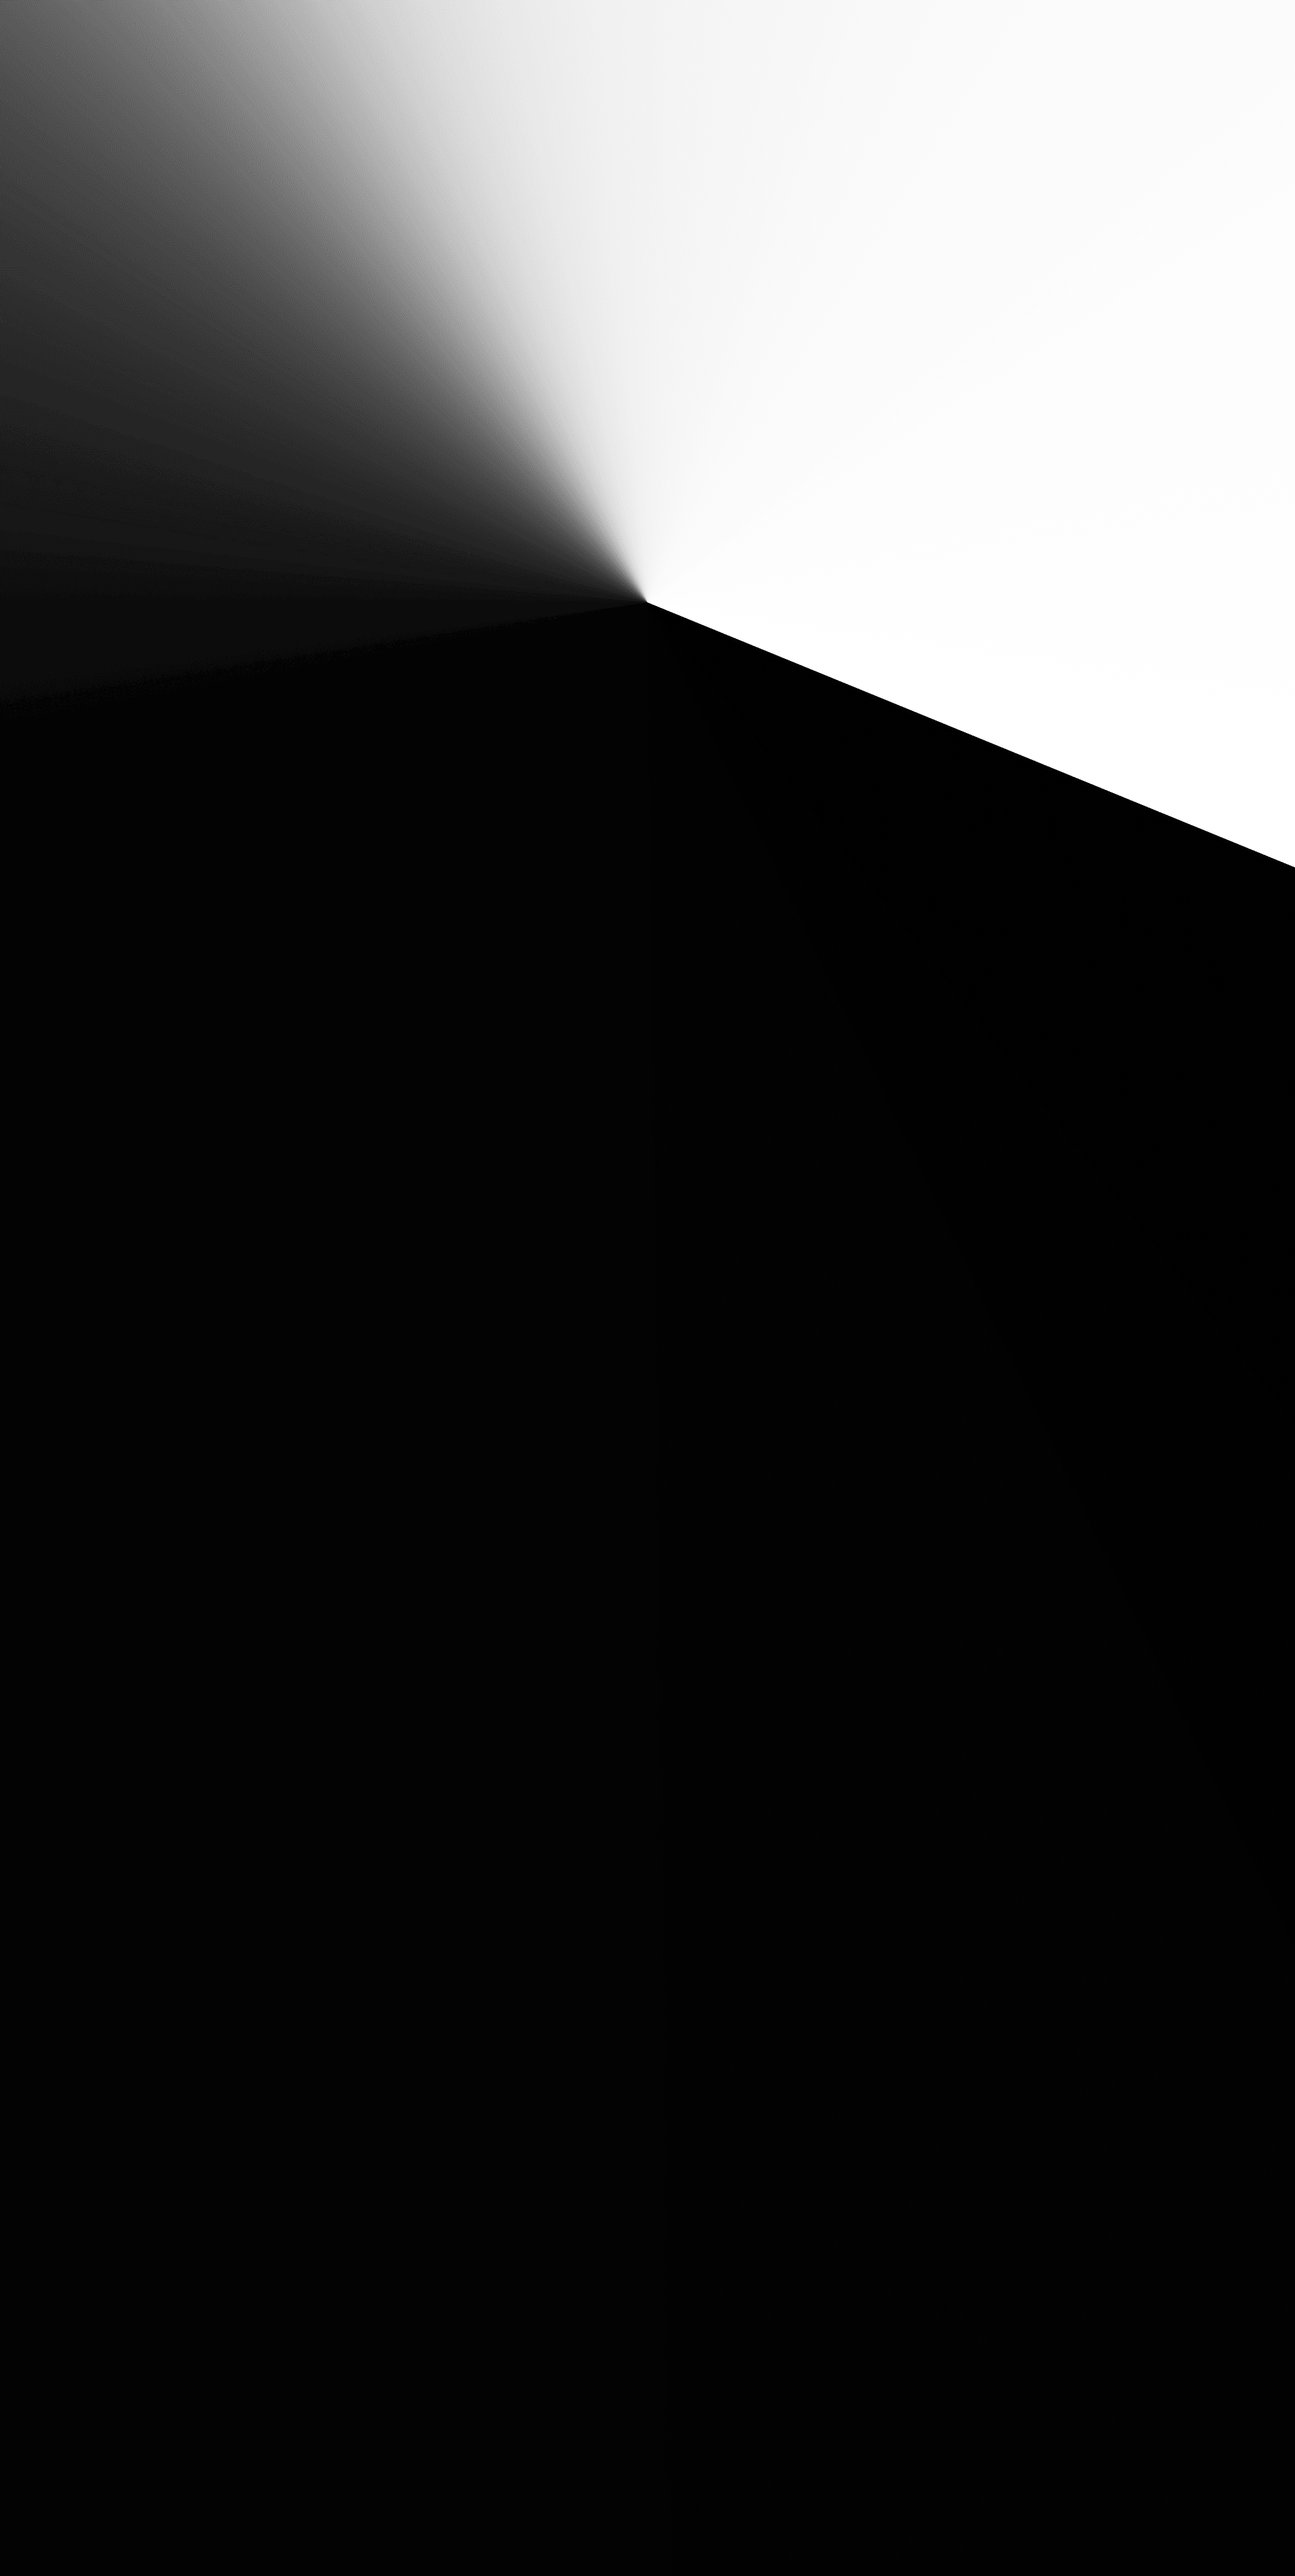
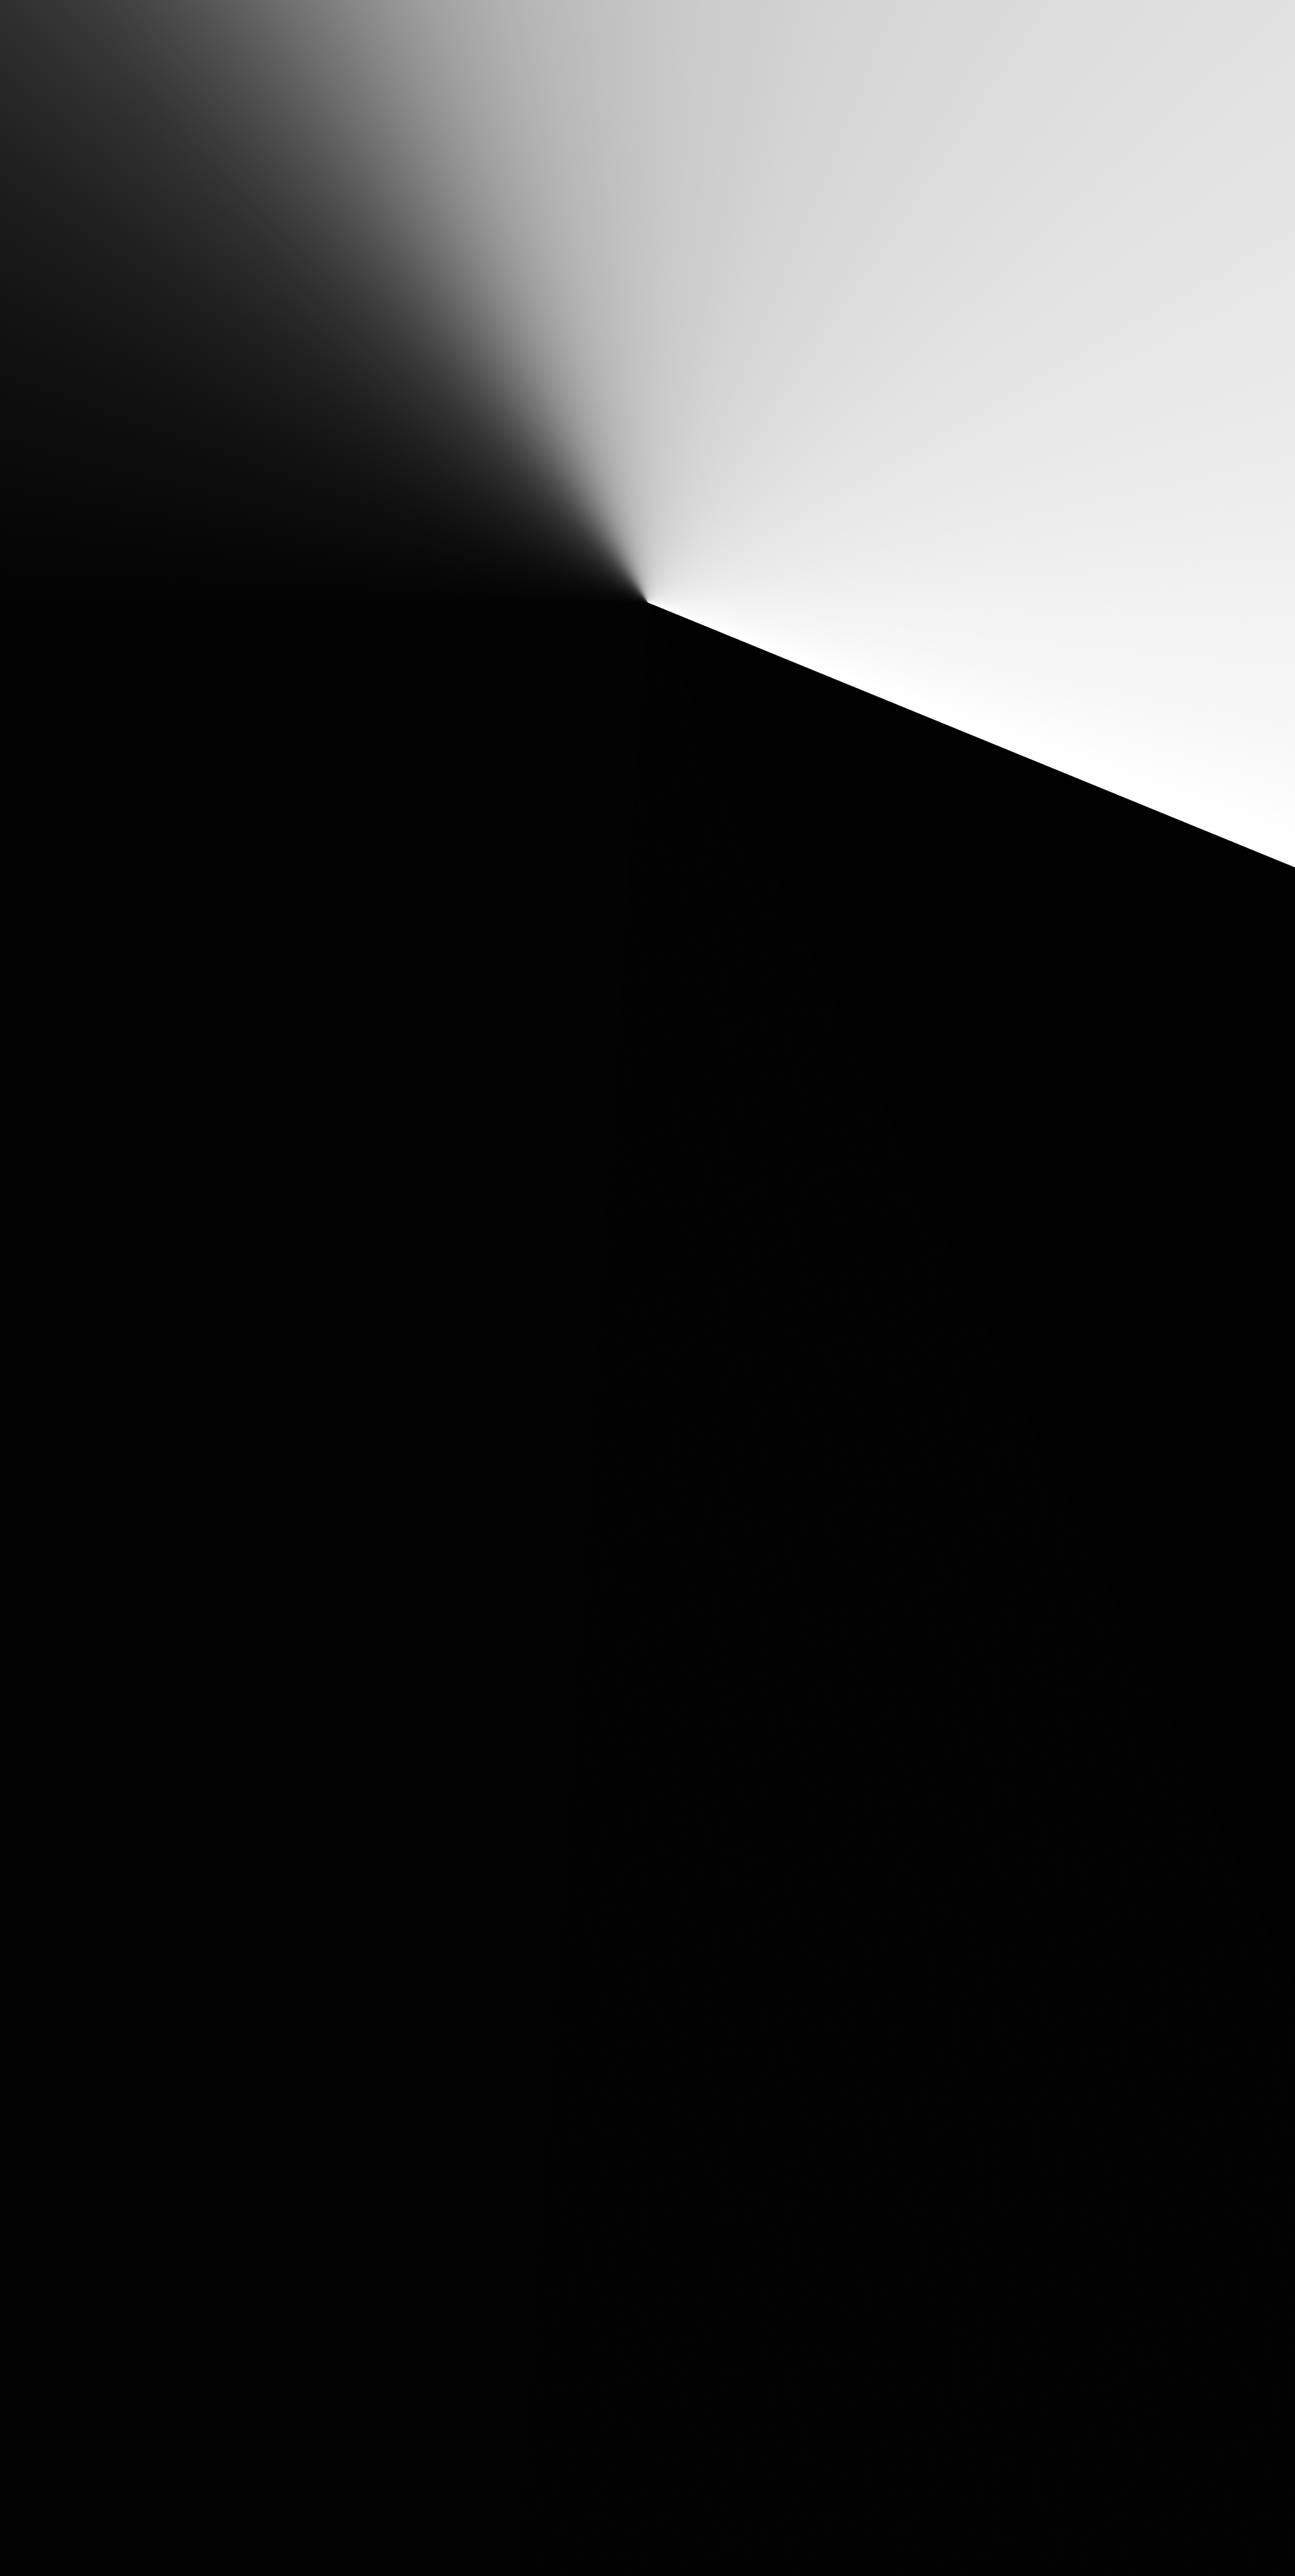
final commits

Changed region(s): [[0.0, 0.0, 1.0, 0.25]]

diff --git a/styles.css b/styles.css
@@ -11,6 +11,11 @@ html {
 
 body {
     font-family: 'Piazzolla', serif;
+    background-image: url(./images/background.png);
+    overflow: none;
+    background-size: 100%;
+    background-repeat: no-repeat;
+    background-color: black;
 }
 
 header {
@@ -19,7 +24,6 @@ header {
     justify-content: space-around;
     align-items: center;
     padding: 2em;
-    border: 1px solid black;
 }
 
 header h1 {
@@ -29,15 +33,18 @@ header h1 {
     text-shadow: 0rem 0.25rem 0.25rem rgba(0, 0, 0, 0.25);
     text-decoration-line: underline;
     line-height: 1.36rem;
-    border: 1px solid black;
 }
 
 header .nav-bar {
     display: flex;
-    border: 1px solid black;
     align-self: center;
     padding: 2em;
     justify-content: center;
+}
+
+.icon.responsive {
+    display: block;
+    font-size: 10em;
 }
 
 .nav-bar.responsive {
@@ -52,10 +59,6 @@ header .nav-bar {
 
 .nav-bar.responsive li {
     font-size: 3rem;
-}
-
-.nav-bar.responsive {
-    display: none;
 }
 
 header li {
@@ -95,7 +98,6 @@ header li a:visited {
 }
 
 .hero-section {
-    border: 1px solid black;
     padding: 18em;
     display: flex;
     flex-direction: column;
@@ -125,10 +127,18 @@ h3 {
     background-color: rgba(255, 255, 255, 0);
     max-width: 10em;
     margin-top: 3em;
+    cursor: pointer;
+}
+
+.hero-section button a:link,
+.hero-section button a:visited,
+.hero-section button a:active,
+.hero-section button a:focus {
+    color: #FFD700;
+    text-decoration-line: none;
 }
 
 .second-section {
-    border: 1px solid black;
     padding: 18em;
     display: flex;
     justify-content: space-around;
@@ -136,8 +146,10 @@ h3 {
 
 .second-section img {
     max-width: 40%;
+    z-index: 1;
     height: auto;
     align-self: center;
+    opacity: 50%;
 }
 
 .second-section div {
@@ -147,7 +159,6 @@ h3 {
 }
 
 .third-section {
-    border: 1px solid black;
     display: flex;
     justify-content: space-around;
     position: relative;
@@ -157,6 +168,7 @@ h3 {
     max-width: 100%;
     height: auto;
     align-self: center;
+    opacity: 50%;
 }
 
 .third-section div {
@@ -170,7 +182,6 @@ h3 {
 }
 
 .fourth-section {
-    border: 1px solid black;
     padding: 18em;
     display: flex;
     align-items: center;
@@ -179,7 +190,6 @@ h3 {
 
 .fourth-section ul {
     display: flex;
-    border: 1px solid black;
     align-self: center;
     padding: 2em;
     justify-content: center;
@@ -206,13 +216,15 @@ footer {
 }
 
 @media (max-width: 800px) {
+    body {
+        background-size: 100%;
+    }
     header {
         align-items: center;
         padding: 5em;
     }
     .fa {
         display: block;
-        border: 1px solid black;
         font-size: 5em;
         color: #FFDF37;
         cursor: pointer;
@@ -220,6 +232,7 @@ footer {
     a.icon {
         float: right;
         display: block;
+        position: relative;
     }
     .nav-bar.responsive {
         position: relative;
@@ -243,17 +256,39 @@ footer {
         flex-direction: column;
         align-items: center;
         justify-content: space-around;
-        position: fixed;
+        position: absolute;
         height: 100vh;
         width: 100%;
-        z-index: 0;
     }
     header a,
     i {
-        z-index: 100;
+        z-index: 12;
     }
-    .nav-bar.responsive:active,
-    .nav-bar.responsive:focus {
-        display: none;
+    .hero-section {
+        flex-direction: column;
+        align-items: center;
+    }
+    .hero-section button {
+        width: 9em;
+    }
+    .second-section {
+        flex-direction: column;
+        align-items: center;
+    }
+    .second-section div {
+        flex-direction: column;
+        align-items: center;
+        margin-top: 5em;
+    }
+    .second-section img {
+        max-width: 80%;
+    }
+    .fourth-section ul {
+        display: flex;
+        flex-direction: column;
+    }
+    footer {
+        align-self: center;
+        overflow: none;
     }
 }

diff --git a/index.html b/index.html
@@ -6,6 +6,7 @@
     <meta http-equiv="X-UA-Compatible" content="IE=edge">
     <meta name="viewport" content="width=device-width, initial-scale=1.0">
     <link rel="stylesheet" href="./styles.css">
+    <link rel="icon" type="image/png" href="./icons/favicon-32x32.png" sizes="32x32" />
     <script src="https://kit.fontawesome.com/7ef3aa74d6.js" crossorigin="anonymous"></script>
     <title>Gold</title>
 </head>
@@ -32,7 +33,7 @@
         <h2>Grandeur.</h2>
         <h3>Done for you.</h3>
 
-        <button>Buy GOLD</button>
+        <button><a href="https://www.youtube.com/watch?v=dQw4w9WgXcQ" target="_blank">Buy GOLD</a></button>
     </section>
 
     <section class="second-section">
